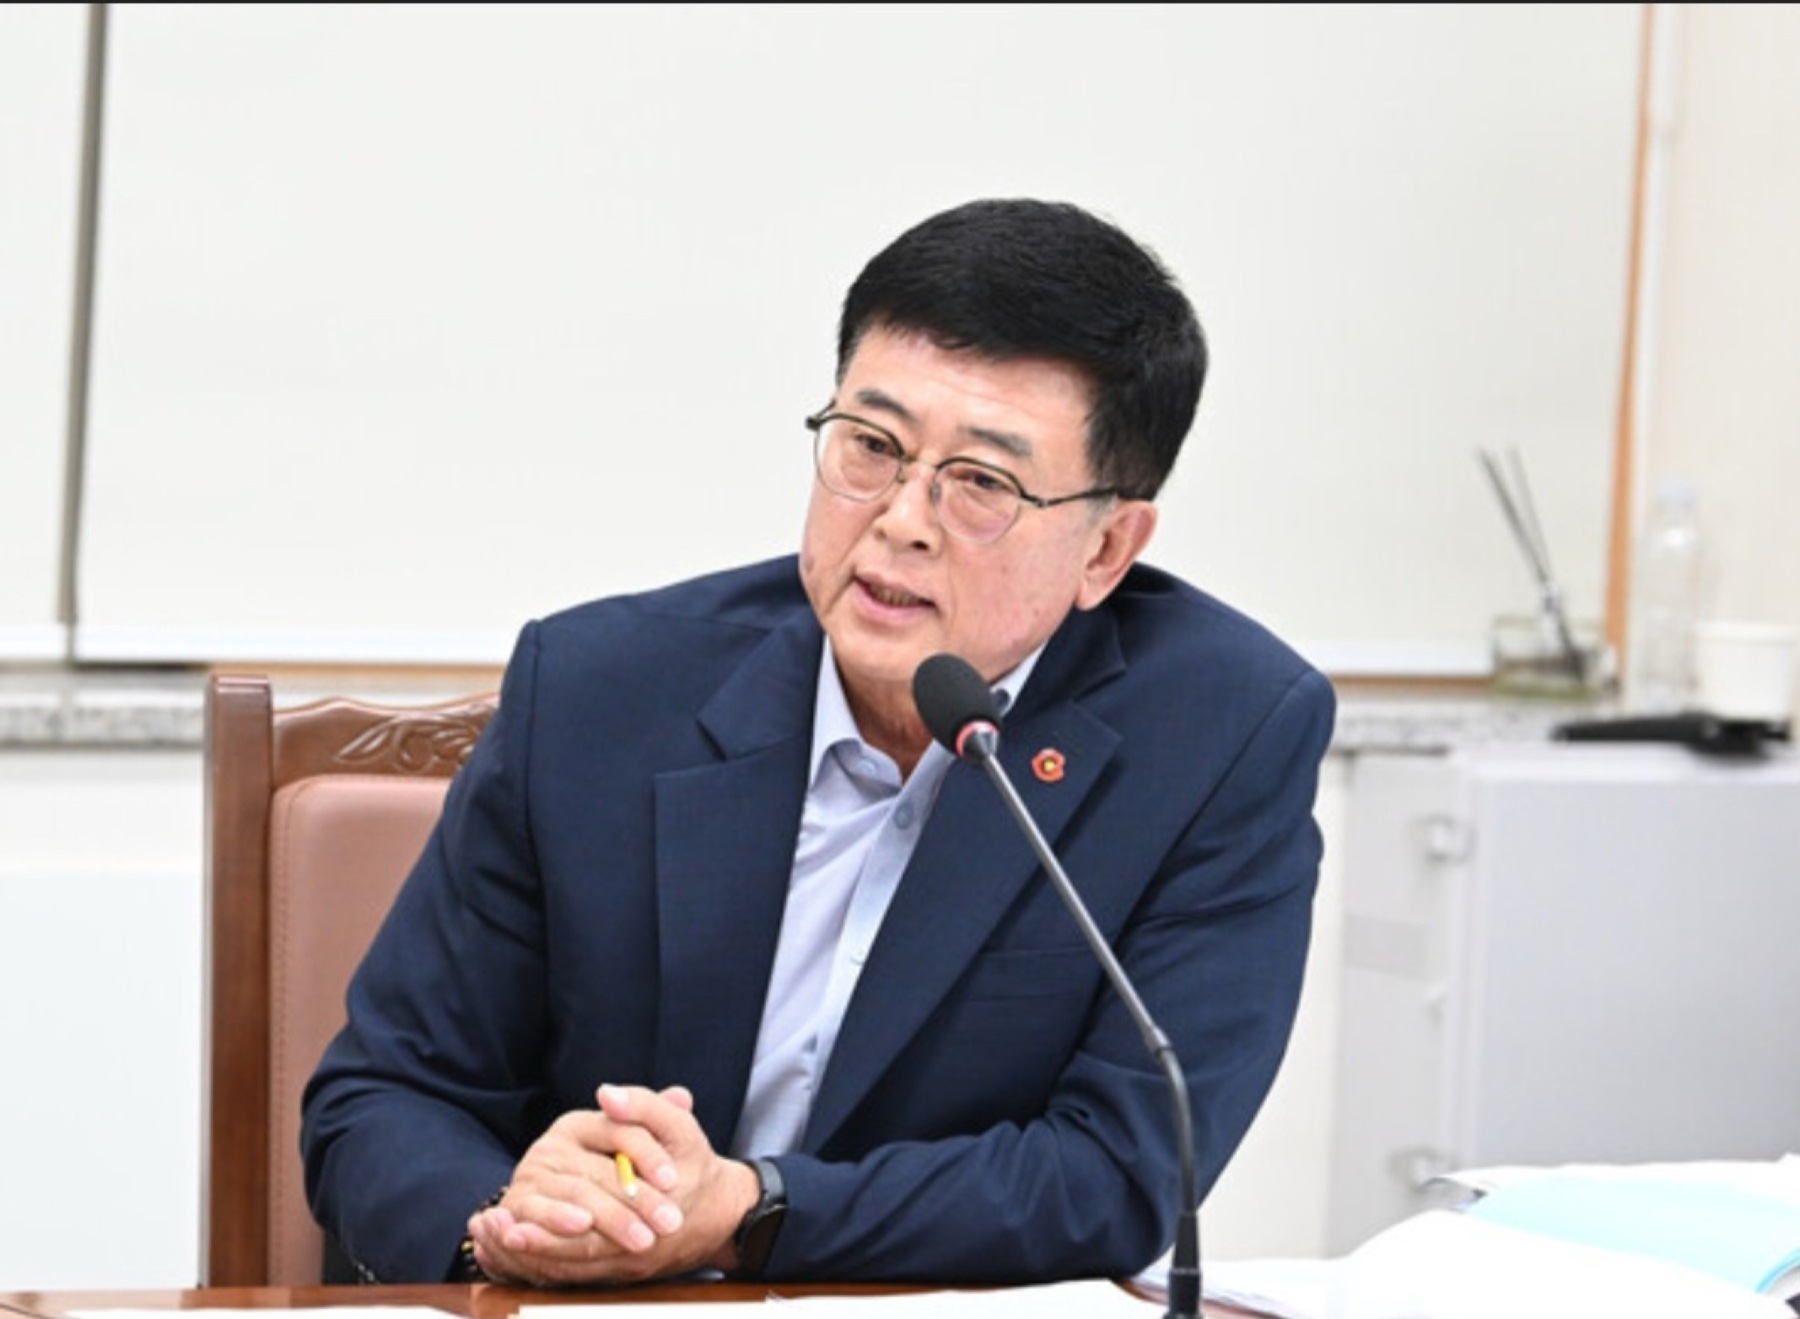
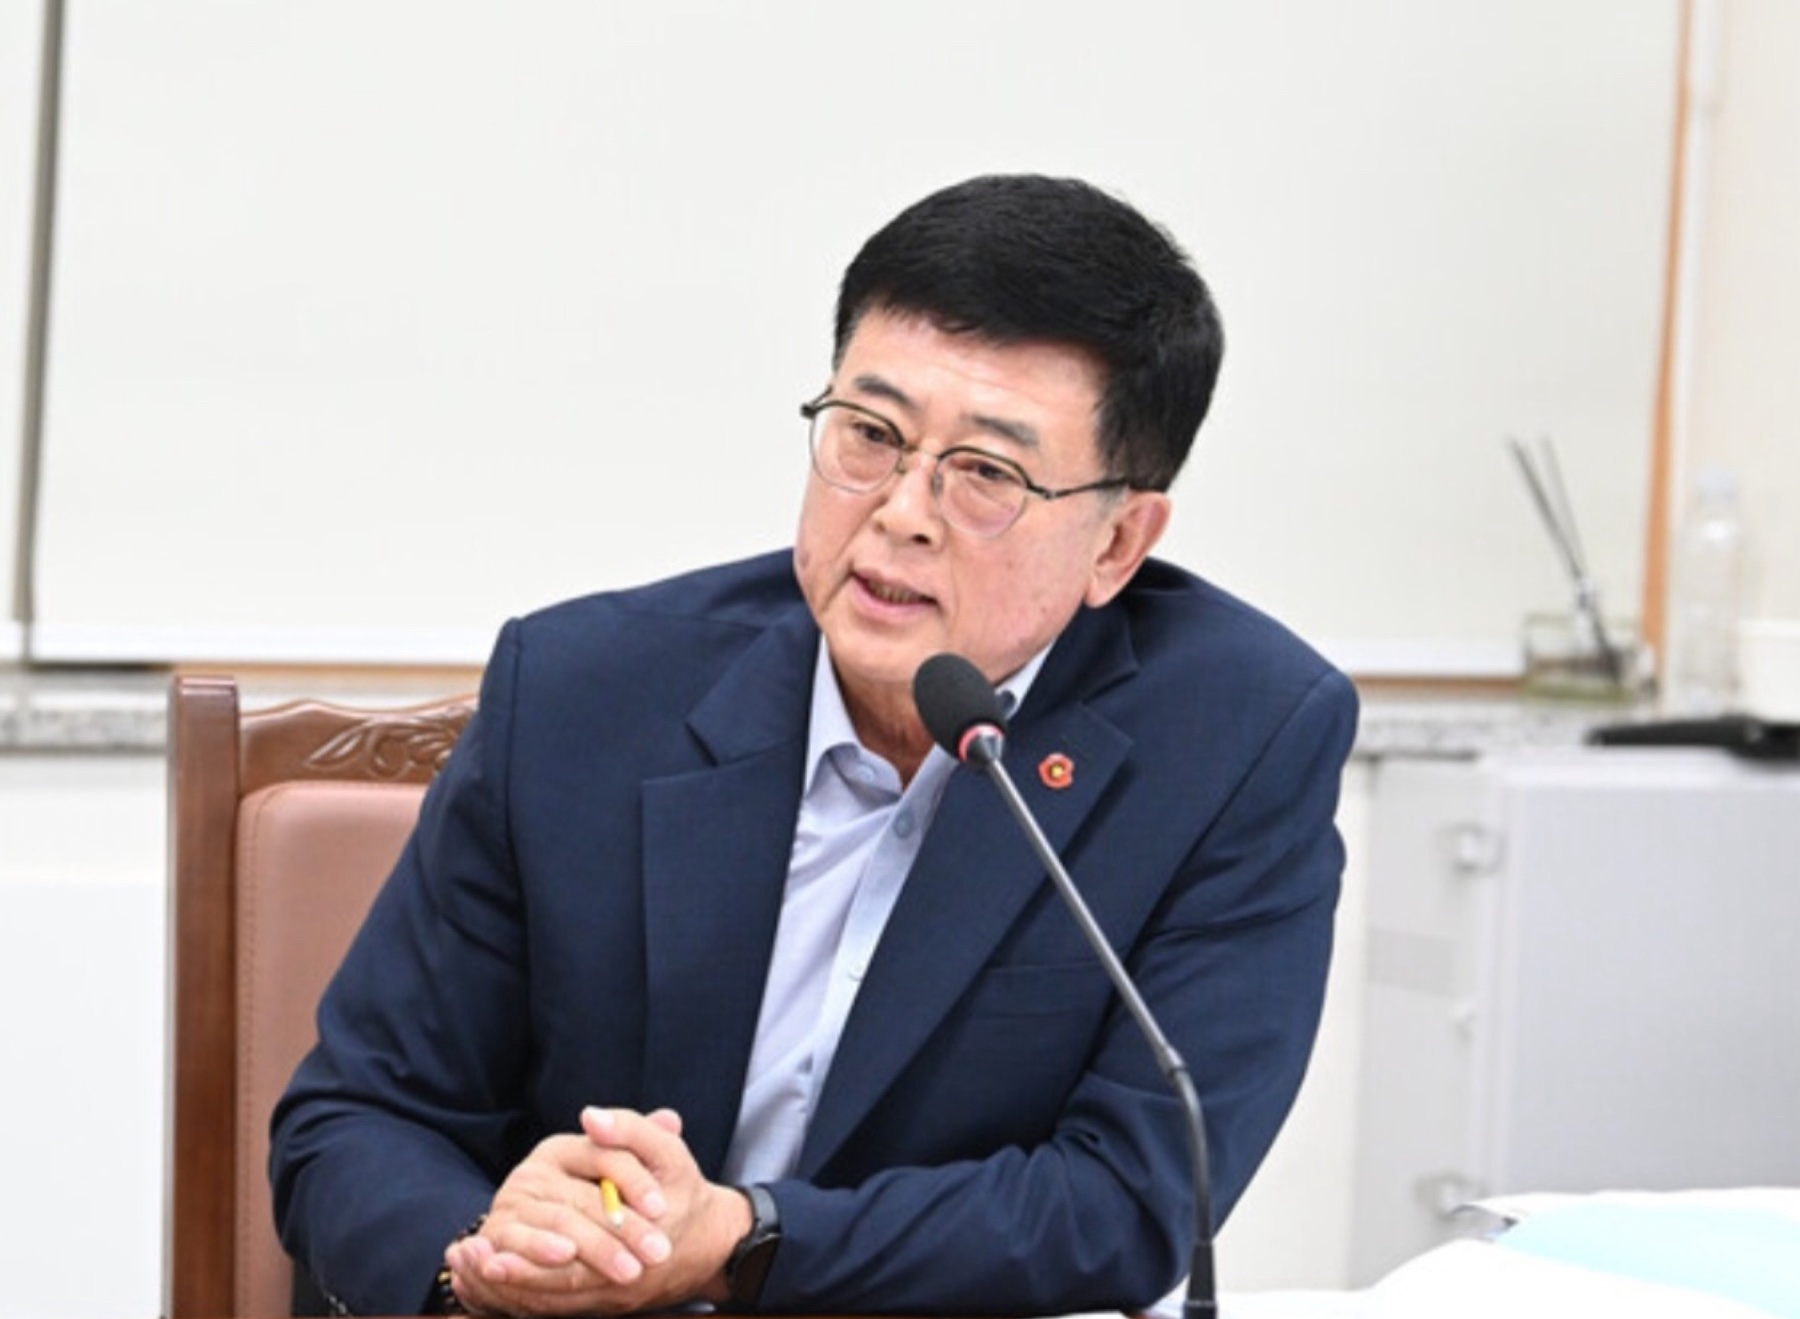
Theo 디자인 기준 반영: 장식 제거·가독성 확대·UX라이팅 정리
- 히어로 좌측 오렌지 점선 제거, 키비주얼 상단 검정 라인(업스케일 가장자리) 크롭
- '아래로 보기' → 원본 카피 '아래로 내려주세요'
- 소개 리드문-본문 간격 확보(22px), 본문 15→16px
- 연혁 연도 10→14px·직책 12→15px, 섹션 라벨 13px, 주석줄 13.5px 등 소형 텍스트 전반 확대
- 세로쓰기 '현장에서 의정으로' 제거, 과제 섹션 우측 부유 문구 제거
- 과제 설명 14.5px, 푸터·기록 라벨 확대

diff --git a/app/globals.css b/app/globals.css
@@ -133,59 +133,55 @@ body {
 .rn .header-link:hover { color: var(--accent); border-color: var(--accent); }
 
 .rn .hero { position: relative; min-height: calc(100vh - 74px); padding: 29px var(--page-x) 36px; background: var(--paper); }
-.rn .hero::before { content: ""; position: absolute; top: 0; left: 10px; bottom: 0; width: 2px; opacity: 0.75; background-image: radial-gradient(var(--accent) 1.1px, transparent 1.2px); background-size: 2px 12px; }
-.rn .hero-topline { display: flex; justify-content: space-between; gap: 20px; padding-bottom: 26px; border-bottom: 1px solid var(--line); color: var(--ink-soft); font-family: var(--mono); font-size: 9px; letter-spacing: 0.08em; }
+.rn .hero-topline { display: flex; justify-content: space-between; gap: 20px; padding-bottom: 26px; border-bottom: 1px solid var(--line); color: var(--ink-soft); font-family: var(--mono); font-size: 11px; letter-spacing: 0.08em; }
 .rn .hero-topline p { margin: 0; }
 .rn .hero-grid { display: grid; grid-template-columns: repeat(12, minmax(0, 1fr)); gap: clamp(16px, 2vw, 28px); align-items: end; max-width: 1440px; min-height: calc(100vh - 180px); margin: 0 auto; }
 .rn .hero-intro { grid-column: 1 / span 7; align-self: center; max-width: 730px; margin: 0; padding: 20px 0 82px; }
-.rn .hero-kicker, .rn .section-label { margin: 0; color: var(--accent); font-family: var(--mono); font-size: 11px; letter-spacing: 0.09em; }
+.rn .hero-kicker, .rn .section-label { margin: 0; color: var(--accent); font-family: var(--mono); font-size: 13px; letter-spacing: 0.07em; }
 .rn h1, .rn h2, .rn h3 { font-family: var(--serif); font-weight: 600; letter-spacing: -0.085em; }
 .rn .hero h1 { margin: 18px 0 22px; font-size: clamp(46px, 6.8vw, 106px); line-height: 1.08; white-space: nowrap; }
 .rn .hero h1 > span { display: block; }
 .rn .accent-dot { color: var(--accent); }
-.rn .hero-deck { max-width: 365px; margin: 0; color: var(--ink-soft); font-size: 15px; line-height: 1.75; letter-spacing: -0.05em; }
+.rn .hero-deck { max-width: 420px; margin: 0; color: var(--ink-soft); font-size: 16px; line-height: 1.75; letter-spacing: -0.04em; }
 .rn .hero-keyvisual { grid-column: 8 / span 5; width: 100%; max-width: 555px; margin: 0 0 34px auto; }
 .rn .hero-keyvisual img { display: block; width: 100%; aspect-ratio: 1 / 1.08; object-fit: cover; object-position: center 42%; }
 .rn .hero-keyvisual figcaption { display: flex; align-items: baseline; gap: 12px; padding: 14px 2px 0; }
 .rn .hero-keyvisual figcaption strong { font-family: var(--serif); font-size: 21px; font-weight: 600; letter-spacing: -0.06em; }
 .rn .hero-keyvisual figcaption span { color: var(--ink-soft); font-size: 13px; letter-spacing: -0.02em; }
-.rn .scroll-callout { position: absolute; left: clamp(20px, 4vw, 64px); bottom: 32px; display: flex; align-items: center; gap: 10px; color: var(--ink-soft); font-family: var(--mono); font-size: 9px; letter-spacing: 0.08em; }
+.rn .scroll-callout { position: absolute; left: clamp(20px, 4vw, 64px); bottom: 32px; display: flex; align-items: center; gap: 10px; color: var(--ink-soft); font-size: 13px; letter-spacing: -0.01em; }
 .rn .scroll-callout span { display: block; width: 42px; height: 1px; background: var(--ink-soft); }
 
 .rn .statement, .rn .priorities, .rn .records, .rn .closing { padding: clamp(86px, 10vw, 158px) var(--page-x); }
 .rn .section-label { display: flex; align-items: center; gap: 10px; color: var(--ink-soft); }
 .rn .section-label span { color: var(--accent); }
 .rn .section-label::after { content: ""; width: 30px; height: 1px; background: var(--line-dark); }
-.rn .archive-note { margin: 12px 0 0; color: var(--ink-soft); font-size: 12px; letter-spacing: 0; }
+.rn .archive-note { margin: 12px 0 0; color: var(--ink-soft); font-size: 13.5px; letter-spacing: 0; }
 .rn .archive-note::before { content: ""; display: inline-block; width: 5px; height: 5px; margin: 0 7px 1px 0; background: var(--accent); }
 .rn .statement { background: var(--paper); border-top: 1px solid var(--line); }
 .rn .statement-grid { display: grid; grid-template-columns: repeat(12, minmax(0, 1fr)); gap: clamp(16px, 2vw, 28px); align-items: start; margin-top: 68px; }
 .rn .statement-grid h2 { grid-column: 1 / span 7; }
 .rn .statement h2, .rn .priorities h2, .rn .records h2, .rn .closing h2 { margin: 0; font-size: clamp(42px, 5.1vw, 80px); line-height: 1.16; }
 .rn .statement-copy { grid-column: 9 / span 4; max-width: 450px; padding-top: 7px; }
-.rn .statement-copy p { color: var(--ink-soft); font-size: 15px; line-height: 1.86; letter-spacing: -0.05em; }
-.rn .statement-copy .lead { color: var(--ink); font-size: 20px; font-weight: 700; line-height: 1.6; }
+.rn .statement-copy p { margin: 0 0 16px; color: var(--ink-soft); font-size: 16px; line-height: 1.85; letter-spacing: -0.04em; }
+.rn .statement-copy .lead { margin: 0 0 22px; color: var(--ink); font-size: 20px; font-weight: 700; line-height: 1.6; }
 .rn .plain-link, .rn .closing-link { display: inline-flex; align-items: center; gap: 8px; margin-top: 28px; padding-bottom: 5px; border-bottom: 1px solid var(--ink); font-size: 13px; font-weight: 700; letter-spacing: -0.05em; transition: color 0.18s ease, transform 0.18s cubic-bezier(0.23, 1, 0.32, 1); }
 .rn .plain-link:hover, .rn .closing-link:hover { color: var(--accent); border-color: var(--accent); transform: translateX(3px); }
 .rn .career-strip { display: grid; grid-template-columns: repeat(5, 1fr); margin-top: 120px; border-top: 1px solid var(--line); }
 .rn .career-strip > div { min-height: 112px; padding: 14px 16px; border-left: 1px solid var(--line); display: flex; flex-direction: column; justify-content: space-between; }
 .rn .career-strip > div:first-child { border-left: 0; padding-left: 0; }
-.rn .career-strip small { color: var(--accent); font-family: var(--mono); font-size: 10px; letter-spacing: 0.04em; }
-.rn .career-strip strong { font-size: 12px; line-height: 1.6; letter-spacing: -0.05em; }
+.rn .career-strip small { color: var(--accent); font-family: var(--mono); font-size: 14px; letter-spacing: 0.04em; }
+.rn .career-strip strong { font-size: 15px; line-height: 1.55; letter-spacing: -0.03em; }
 
 .rn .manifesto { position: relative; min-height: 620px; display: grid; grid-template-columns: repeat(12, minmax(0, 1fr)); align-items: end; column-gap: clamp(16px, 2vw, 28px); padding: clamp(75px, 9vw, 138px) var(--page-x); background: var(--paper-warm); border-top: 1px solid var(--line); border-bottom: 1px solid var(--line); }
-.rn .manifesto > div { grid-column: 3 / span 6; }
-.rn .vertical-meta { grid-column: 1 / span 1; align-self: stretch; writing-mode: vertical-rl; transform: rotate(180deg); margin: 0; color: var(--ink-soft); font-family: var(--mono); font-size: 9px; letter-spacing: 0.1em; }
+.rn .manifesto > div { grid-column: 2 / span 6; }
 .rn .manifesto h2 { max-width: 650px; margin: 17px 0 0; font-size: clamp(42px, 5.6vw, 86px); line-height: 1.1; }
 .rn .manifesto-note { color: var(--ink-soft); }
-.rn .manifesto-copy { grid-column: 10 / span 3; max-width: 260px; margin: 0 0 9px; color: var(--ink-soft); font-size: 15px; line-height: 1.82; letter-spacing: -0.05em; }
+.rn .manifesto-copy { grid-column: 9 / span 3; max-width: 300px; margin: 0 0 9px; color: var(--ink-soft); font-size: 16px; line-height: 1.82; letter-spacing: -0.04em; }
 
 .rn .priorities { background: var(--paper); }
-.rn .section-head { display: flex; justify-content: space-between; align-items: flex-end; gap: 24px; }
-.rn .section-head > p { margin: 0; font-family: var(--serif); font-size: 19px; line-height: 1.5; letter-spacing: -0.06em; }
 .rn .priorities-title-row { display: grid; grid-template-columns: repeat(12, minmax(0, 1fr)); column-gap: clamp(16px, 2vw, 28px); margin: 54px 0 56px; align-items: end; }
 .rn .priorities-title-row h2 { grid-column: 1 / span 7; }
-.rn .priorities-title-row p { grid-column: 9 / span 4; max-width: 340px; margin: 0 0 7px; color: var(--ink-soft); font-size: 14px; line-height: 1.8; letter-spacing: -0.05em; }
+.rn .priorities-title-row p { grid-column: 9 / span 4; max-width: 360px; margin: 0 0 7px; color: var(--ink-soft); font-size: 15px; line-height: 1.8; letter-spacing: -0.04em; }
 .rn .priority-list { border-top: 1px solid var(--line-dark); }
 .rn .priority-item { display: grid; grid-template-columns: 70px 165px 1fr 34px; gap: 12px; align-items: start; padding: 27px 0; border-bottom: 1px solid var(--line); transition: padding 0.2s cubic-bezier(0.23, 1, 0.32, 1), background 0.2s ease; }
 .rn .priority-item:hover { padding-left: 12px; padding-right: 12px; background: var(--paper-soft); }
@@ -194,16 +190,16 @@ body {
 .rn .priority-number { color: var(--accent); }
 .rn .priority-label { color: var(--ink-soft); }
 .rn .priority-item h3 { margin: -4px 0 8px; font-size: 23px; line-height: 1.4; }
-.rn .priority-item p { max-width: 570px; margin: 0; color: var(--ink-soft); font-size: 13px; line-height: 1.7; letter-spacing: -0.04em; }
+.rn .priority-item p { max-width: 570px; margin: 0; color: var(--ink-soft); font-size: 14.5px; line-height: 1.7; letter-spacing: -0.03em; }
 .rn .priority-icon { justify-self: end; color: var(--ink-soft); transition: color 0.18s ease, transform 0.18s cubic-bezier(0.23, 1, 0.32, 1); }
 .rn .priority-item:hover .priority-icon { color: var(--accent); transform: translate(3px, -3px); }
 
 .rn .records { position: relative; background: #ebede7; }
-.rn .records-rail { display: flex; align-items: center; gap: 16px; margin: 0 0 70px; color: var(--ink-soft); font-family: var(--mono); font-size: 9px; letter-spacing: 0.1em; }
+.rn .records-rail { display: flex; align-items: center; gap: 16px; margin: 0 0 70px; color: var(--ink-soft); font-size: 12.5px; letter-spacing: 0.02em; }
 .rn .records-rail i { flex: 1; height: 1px; background: var(--line-dark); }
 .rn .records-title-row { display: grid; grid-template-columns: repeat(12, minmax(0, 1fr)); column-gap: clamp(16px, 2vw, 28px); align-items: end; margin: 54px 0 44px; }
 .rn .records-title-row h2 { grid-column: 1 / span 7; }
-.rn .records-title-row p { grid-column: 9 / span 4; max-width: 300px; margin: 0 0 5px; color: var(--ink-soft); font-size: 15px; line-height: 1.8; letter-spacing: -0.05em; }
+.rn .records-title-row p { grid-column: 9 / span 4; max-width: 330px; margin: 0 0 5px; color: var(--ink-soft); font-size: 16px; line-height: 1.8; letter-spacing: -0.04em; }
 .rn .record-gallery { display: grid; grid-template-columns: 7fr 5fr; gap: clamp(16px, 2vw, 28px); align-items: start; margin-bottom: 66px; }
 .rn .record-gallery figure { position: relative; margin: 0; }
 .rn .record-gallery img { display: block; width: 100%; aspect-ratio: 16 / 7; object-fit: cover; }
@@ -223,14 +219,14 @@ body {
 
 .rn .closing { min-height: 480px; display: flex; flex-direction: column; align-items: flex-start; justify-content: space-between; background: var(--paper); }
 .rn .closing h2 { margin-top: clamp(65px, 9vw, 140px); font-size: clamp(42px, 5.7vw, 90px); line-height: 1.12; }
-.rn .closing-copy { margin: 26px 0 0; color: var(--ink-soft); font-size: 15px; line-height: 1.8; letter-spacing: -0.05em; }
+.rn .closing-copy { margin: 26px 0 0; color: var(--ink-soft); font-size: 16px; line-height: 1.8; letter-spacing: -0.04em; }
 .rn .closing-link { margin-top: 60px; }
 .rn .site-footer { display: grid; grid-template-columns: 1fr 1fr auto; gap: 26px; align-items: end; min-height: 150px; padding: 34px var(--page-x); border-top: 1px solid var(--line); background: var(--paper); }
 .rn .site-footer .footer-brand { display: flex; flex-direction: row; align-items: center; gap: 12px; }
 .rn .footer-brand > div { display: flex; flex-direction: column; gap: 5px; }
 .rn .site-footer strong { font-family: var(--serif); font-size: 17px; letter-spacing: -0.07em; }
-.rn .site-footer span, .rn .site-footer small { color: var(--ink-soft); font-family: var(--mono); font-size: 9px; letter-spacing: 0.05em; }
-.rn .site-footer p { margin: 0; font-size: 12px; letter-spacing: -0.04em; text-align: center; }
+.rn .site-footer span, .rn .site-footer small { color: var(--ink-soft); font-size: 12px; letter-spacing: 0; }
+.rn .site-footer p { margin: 0; font-size: 14px; letter-spacing: -0.03em; text-align: center; }
 .rn .footer-side { display: flex; flex-direction: column; align-items: flex-end; gap: 14px; }
 .rn .footer-sns { display: flex; gap: 10px; }
 .rn .footer-sns a { display: inline-flex; align-items: center; justify-content: center; width: 34px; height: 34px; border: 1px solid var(--line-dark); color: var(--ink-soft); transition: color 0.16s ease, border-color 0.16s ease; }
@@ -242,12 +238,11 @@ body {
   .rn .wordmark { font-size: 11px; }
   .rn .header-link { font-size: 11px; }
   .rn .hero { min-height: auto; padding: 22px 20px 28px; }
-  .rn .hero::before { left: 6px; }
-  .rn .hero-topline { padding-bottom: 18px; font-size: 8px; }
+  .rn .hero-topline { padding-bottom: 18px; font-size: 10px; }
   .rn .hero-grid { display: block; min-height: 0; margin: 0; }
   .rn .hero-intro { margin: 0; padding: 58px 0 32px 12px; }
   .rn .hero h1 { margin: 15px 0 17px; font-size: clamp(39px, 10.8vw, 50px); line-height: 1.12; white-space: normal; }
-  .rn .hero-deck { max-width: 285px; font-size: 13px; }
+  .rn .hero-deck { max-width: 320px; font-size: 15px; }
   .rn .hero-keyvisual { width: calc(100% - 12px); max-width: none; margin: 0 0 0 12px; }
   .rn .hero-keyvisual img { aspect-ratio: 1 / 1.02; object-position: center 36%; }
   .rn .hero-keyvisual figcaption { padding-top: 11px; }
@@ -263,13 +258,10 @@ body {
   .rn .career-strip > div { min-height: 94px; padding: 13px 10px; border-top: 1px solid var(--line); }
   .rn .career-strip > div:first-child { border-top: 0; }
   .rn .career-strip > div:nth-child(3), .rn .career-strip > div:nth-child(5) { padding-left: 0; border-left: 0; }
-  .rn .manifesto { min-height: 535px; grid-template-columns: 26px 1fr; gap: 18px; padding: 78px 20px; }
-  .rn .vertical-meta { grid-row: 1 / span 2; }
-  .rn .manifesto > div { grid-column: 2; }
+  .rn .manifesto { min-height: 535px; grid-template-columns: 1fr; gap: 18px; padding: 78px 20px; }
+  .rn .manifesto > div { grid-column: 1; }
   .rn .manifesto h2 { font-size: clamp(39px, 10.8vw, 57px); }
-  .rn .manifesto-copy { grid-column: 2; max-width: 290px; font-size: 14px; }
-  .rn .section-head { align-items: flex-start; }
-  .rn .section-head > p { font-size: 15px; }
+  .rn .manifesto-copy { grid-column: 1; max-width: 320px; font-size: 15px; }
   .rn .priorities-title-row { margin: 35px 0 42px; }
   .rn .priorities-title-row p { margin: 0; }
   .rn .priority-item { grid-template-columns: 38px 1fr 28px; padding: 22px 0; }

diff --git a/app/page.tsx b/app/page.tsx
@@ -148,7 +148,7 @@ export default function Home() {
             </figure>
           </div>
           <a className="scroll-callout" href="#about">
-            아래로 보기 <span />
+            아래로 내려주세요 <span />
           </a>
         </section>
 
@@ -196,7 +196,6 @@ export default function Home() {
         </section>
 
         <section className="manifesto" aria-labelledby="manifesto-title">
-          <p className="vertical-meta">현장에서 의정으로</p>
           <div>
             <p className="hero-kicker">의정활동의 원칙</p>
             <p className="archive-note manifesto-note">지역: 조천읍 · 현장 중심</p>
@@ -215,14 +214,7 @@ export default function Home() {
         </section>
 
         <section id="priorities" className="priorities" aria-labelledby="priorities-title">
-          <div className="section-head">
-            <SectionLabel number="02">의정 과제</SectionLabel>
-            <p>
-              조천의 현장에서
-              <br />
-              계속 살피는 과제
-            </p>
-          </div>
+          <SectionLabel number="02">의정 과제</SectionLabel>
           <p className="archive-note">기록 구분: 정책 과제 · 대상 지역: 조천읍</p>
           <div className="priorities-title-row">
             <h2 id="priorities-title">
